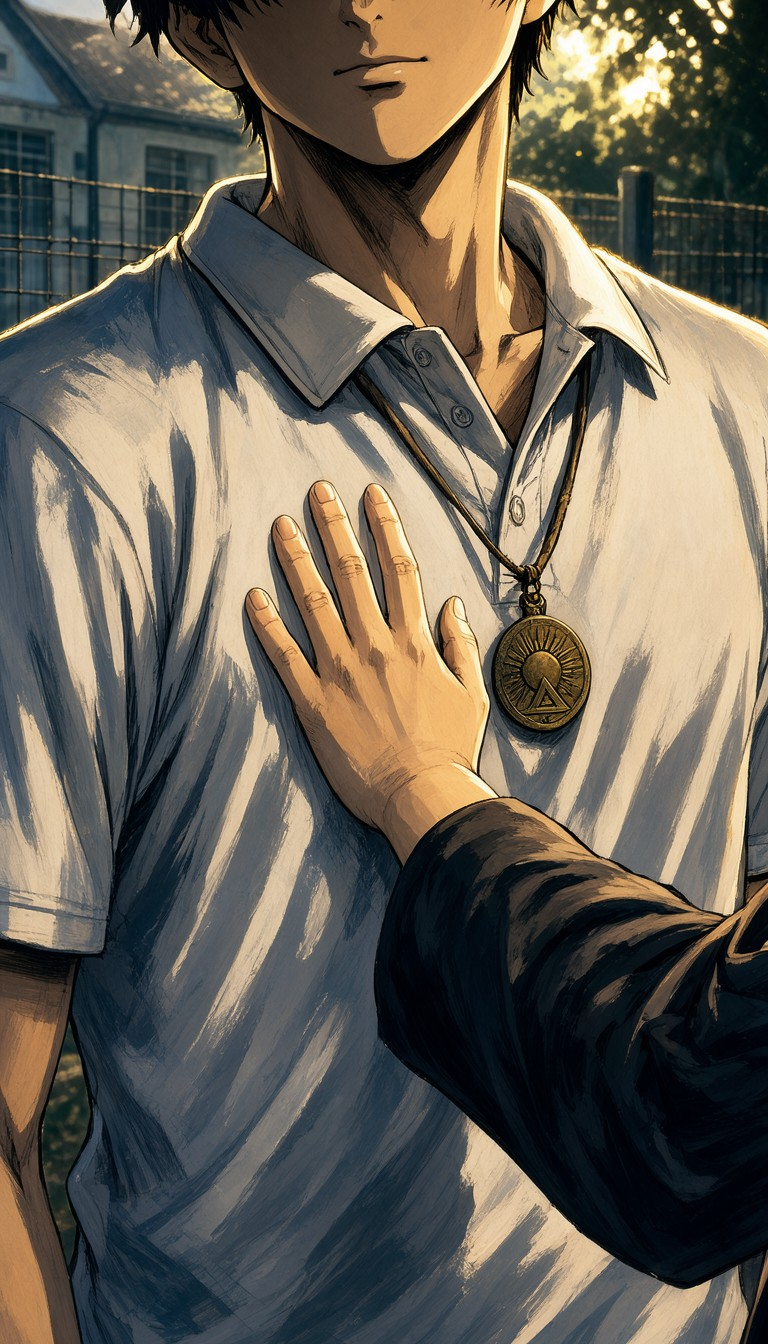
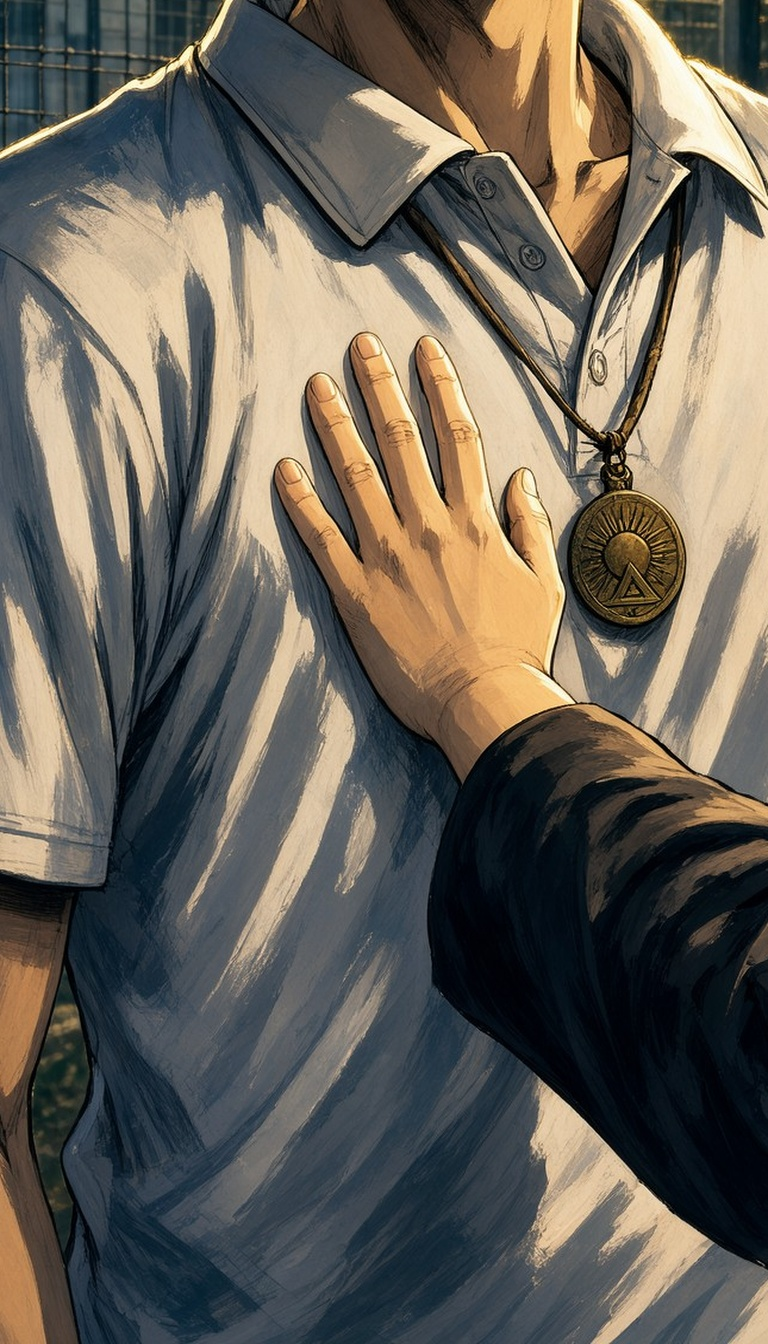
Ep 10 v2: classroom shots re-framed on the speaker with a soft dark room, hair, blouse and reframe fixes, more subtitles moved off the thing shown
Claude-Session: https://claude.ai/code/session_014Q6Ynooa6Bsy7br9pmzyMZ

diff --git a/history-indio/videos/ep10v2-batang-indio/CONSISTENCY.md b/history-indio/videos/ep10v2-batang-indio/CONSISTENCY.md
@@ -7,7 +7,9 @@
 - **bk_24** corrected in code: the white front paw and the white chin tuft darkened to Usman's black (the white chest patch stays; it is in his cast line).
 - **bk_18** corrected in code: the pseudo-letters on the medal rim smoothed into a plain raised rim.
 - **Backpack colour:** the earlier note "cast sheet says brown" was this audit's briefing error. `characters/series_cast.json` named no colour; it now says "a small charcoal backpack", which is what all 51 stills show.
-- Not redrawn: the empty-classroom stills (bk_48 at 94-104 s, bk_13/bk_17 around 65-69 and 114-117 s) against the full class in bk_10; each would need a new draw with a crowd of children, which the picture service has refused or cloned before, so they are left and reported.
+- **Empty classroom (central's second list):** bk_09, bk_12, bk_14, bk_17, bk_45, bk_48 and bk_51 were re-framed in code from the same paintings: cropped closer on the speaker, and the room behind the speaker blurred and darkened by depth, so the empty desks no longer read against the full class of bk_10. No new drawing.
+- **bk_18** the medal boy's hair darkened from brown to black; **bk_31** Ma'am Celia's blouse graded from cream to her yellow; **bk_22** re-framed lower so Indio's face is not cut at the chin.
+- **bk_52** Lolo does wear his glasses in this close-up (thin wire frames, eyes lowered); nothing changed.
 
 
 Audit C. Method: the 20 redrawn / mirrored stills (04, 05, 06, 08, 09, 13, 16, 20, 23, 24, 25, 26, 30, 32, 35, 36, 37, 43, 44, 47) and the 5 stills with code-added writing (09, 14, 40, 42, 53) were looked at whole, then every hand, small face, animal and wrist was cropped at 3x (`/opt/work/build/ep10v2/audit_crops_c/C_NN_*.jpg`, contact sheets `sheet_NN_*.jpg`) and looked at again. The other 31 rows are carried over, condensed, from `audit_A.md` / `audit_B.md` and were NOT re-inspected (marked "carried"). Pixel areas are (x0-x1, y0-y1) in the 768x1344 still. "Own left/right" = the character's own side. bk_41 and bk_46 do not exist.
